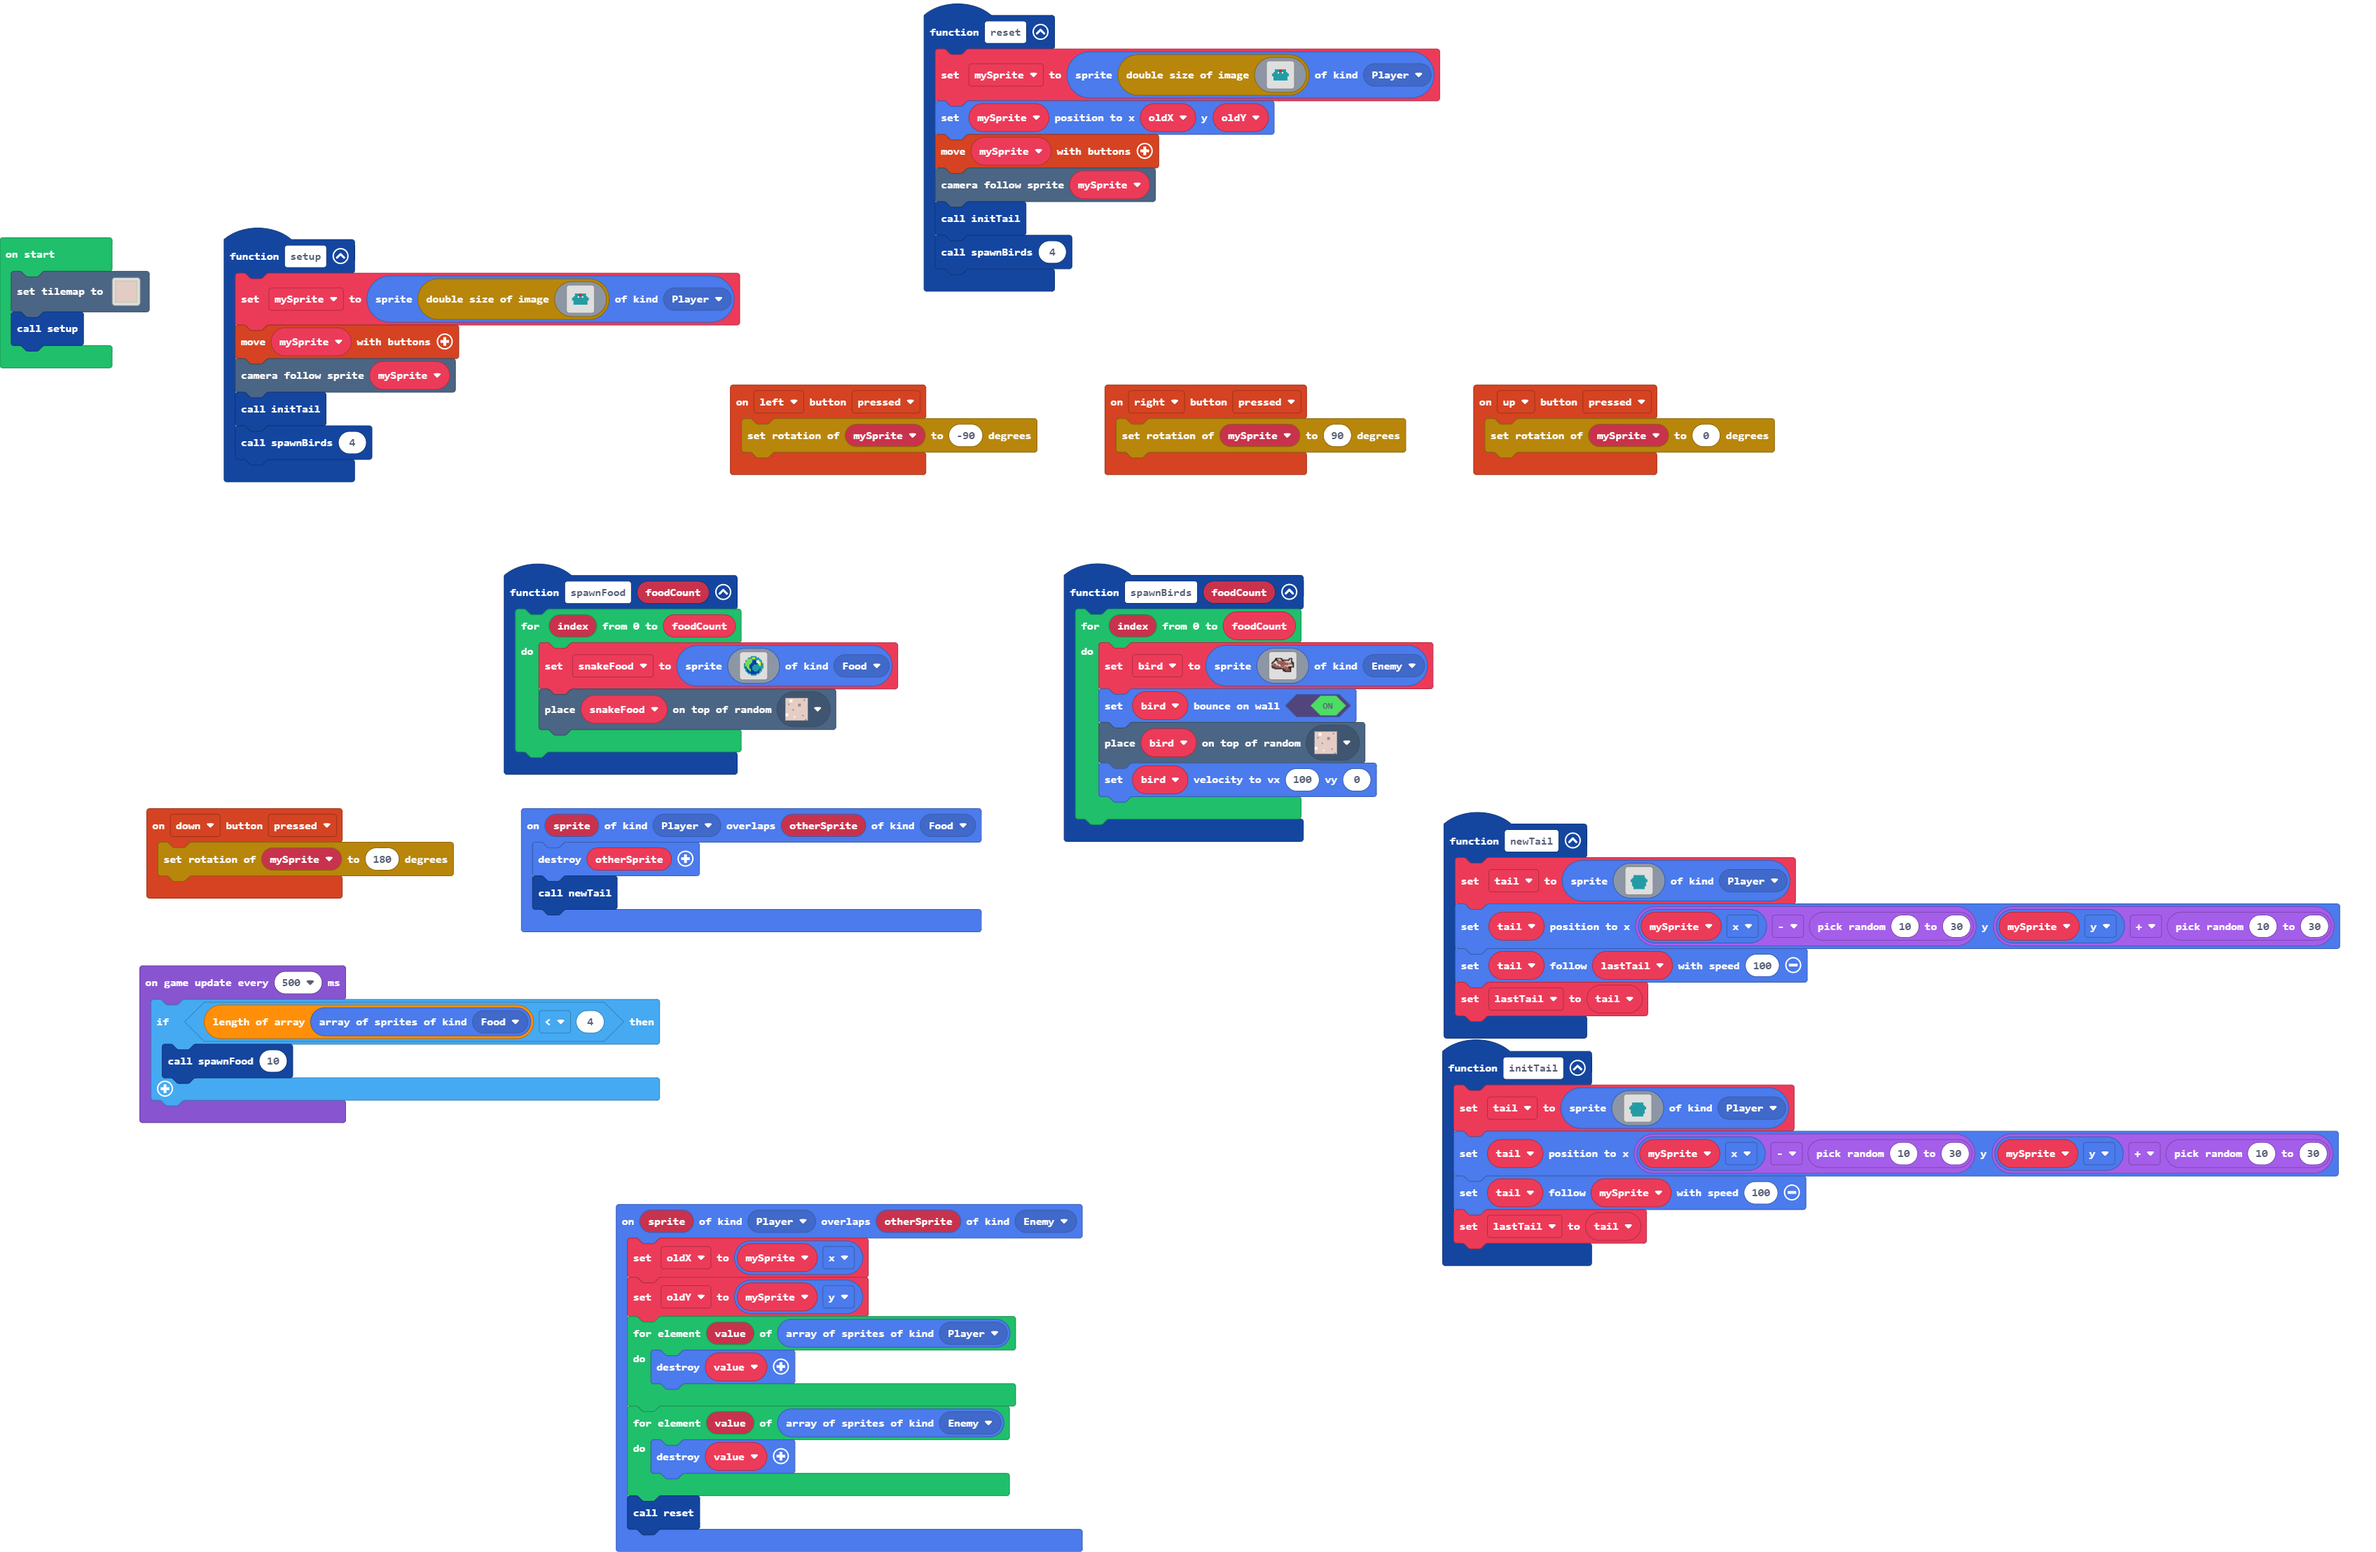
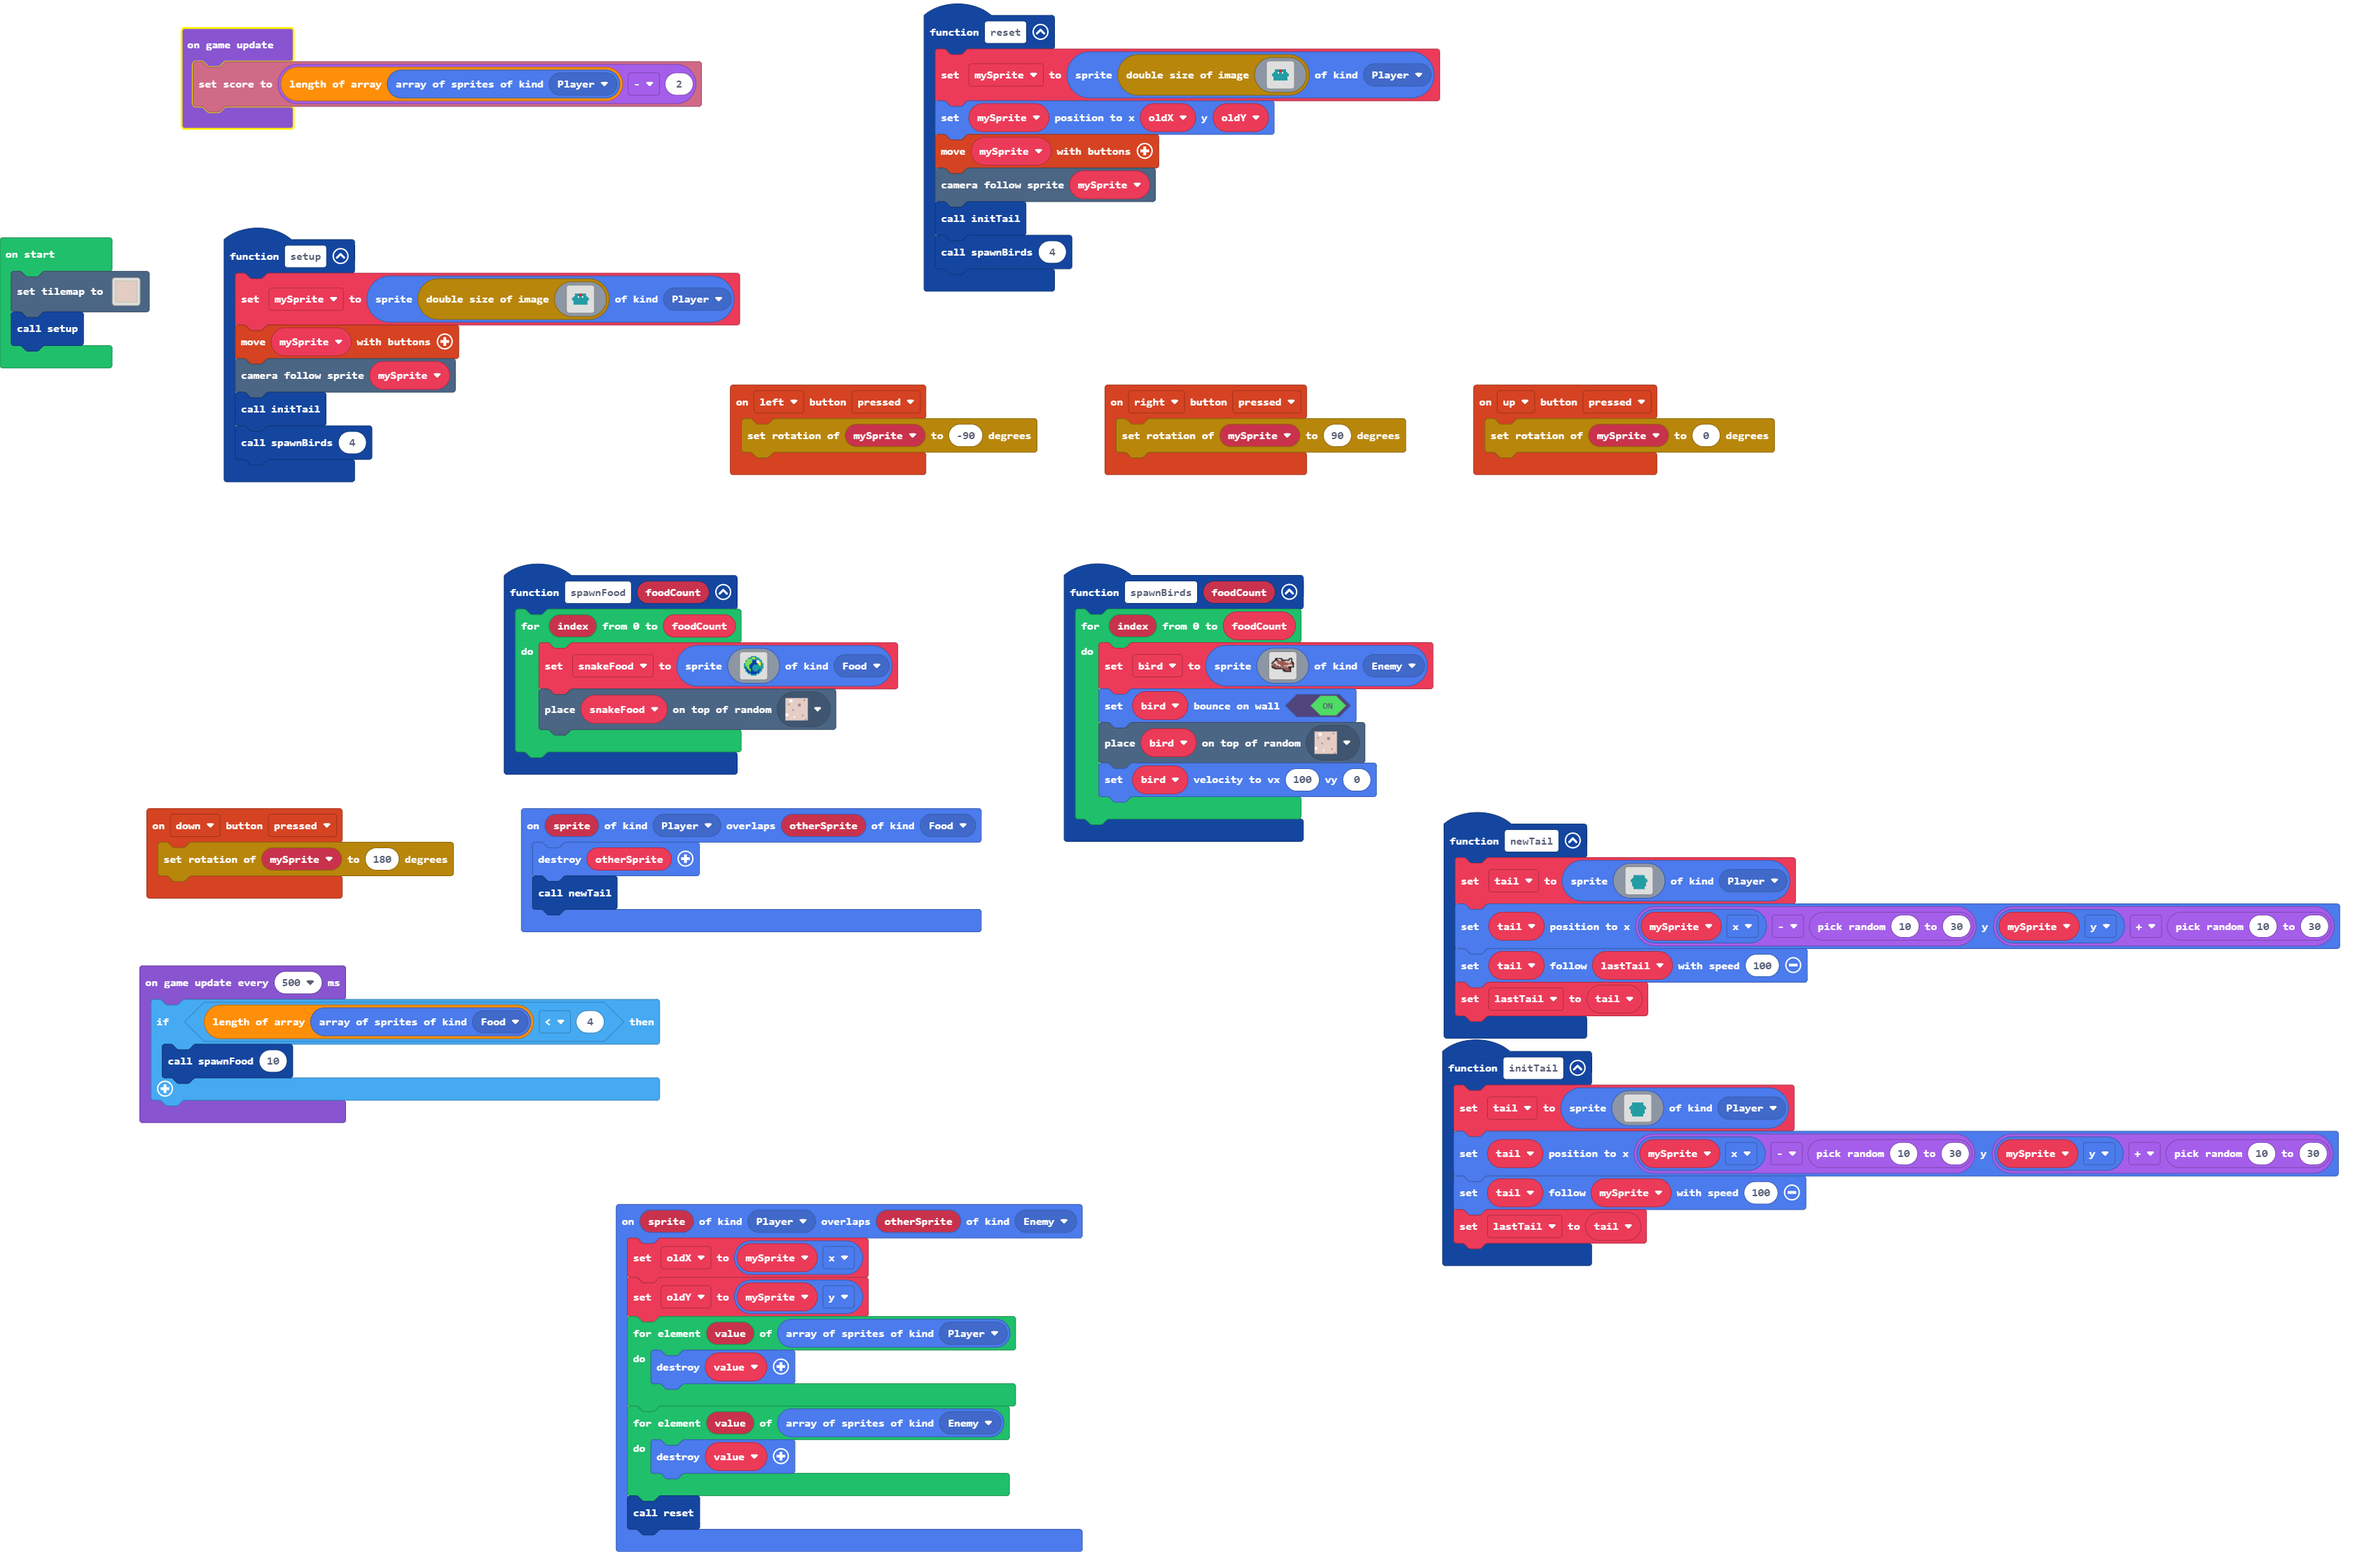
Update main.blocks, main.ts

Changed region(s): [[0.0625, 0.0, 0.3125, 0.0934]]

diff --git a/main.ts b/main.ts
@@ -177,6 +177,9 @@ let mySprite: Sprite = null
 let bird: Sprite = null
 tiles.setTilemap(tilemap`level1`)
 setup()
+game.onUpdate(function () {
+    info.setScore(sprites.allOfKind(SpriteKind.Player).length - 2)
+})
 game.onUpdateInterval(500, function () {
     if (sprites.allOfKind(SpriteKind.Food).length < 4) {
         spawnFood(10)
